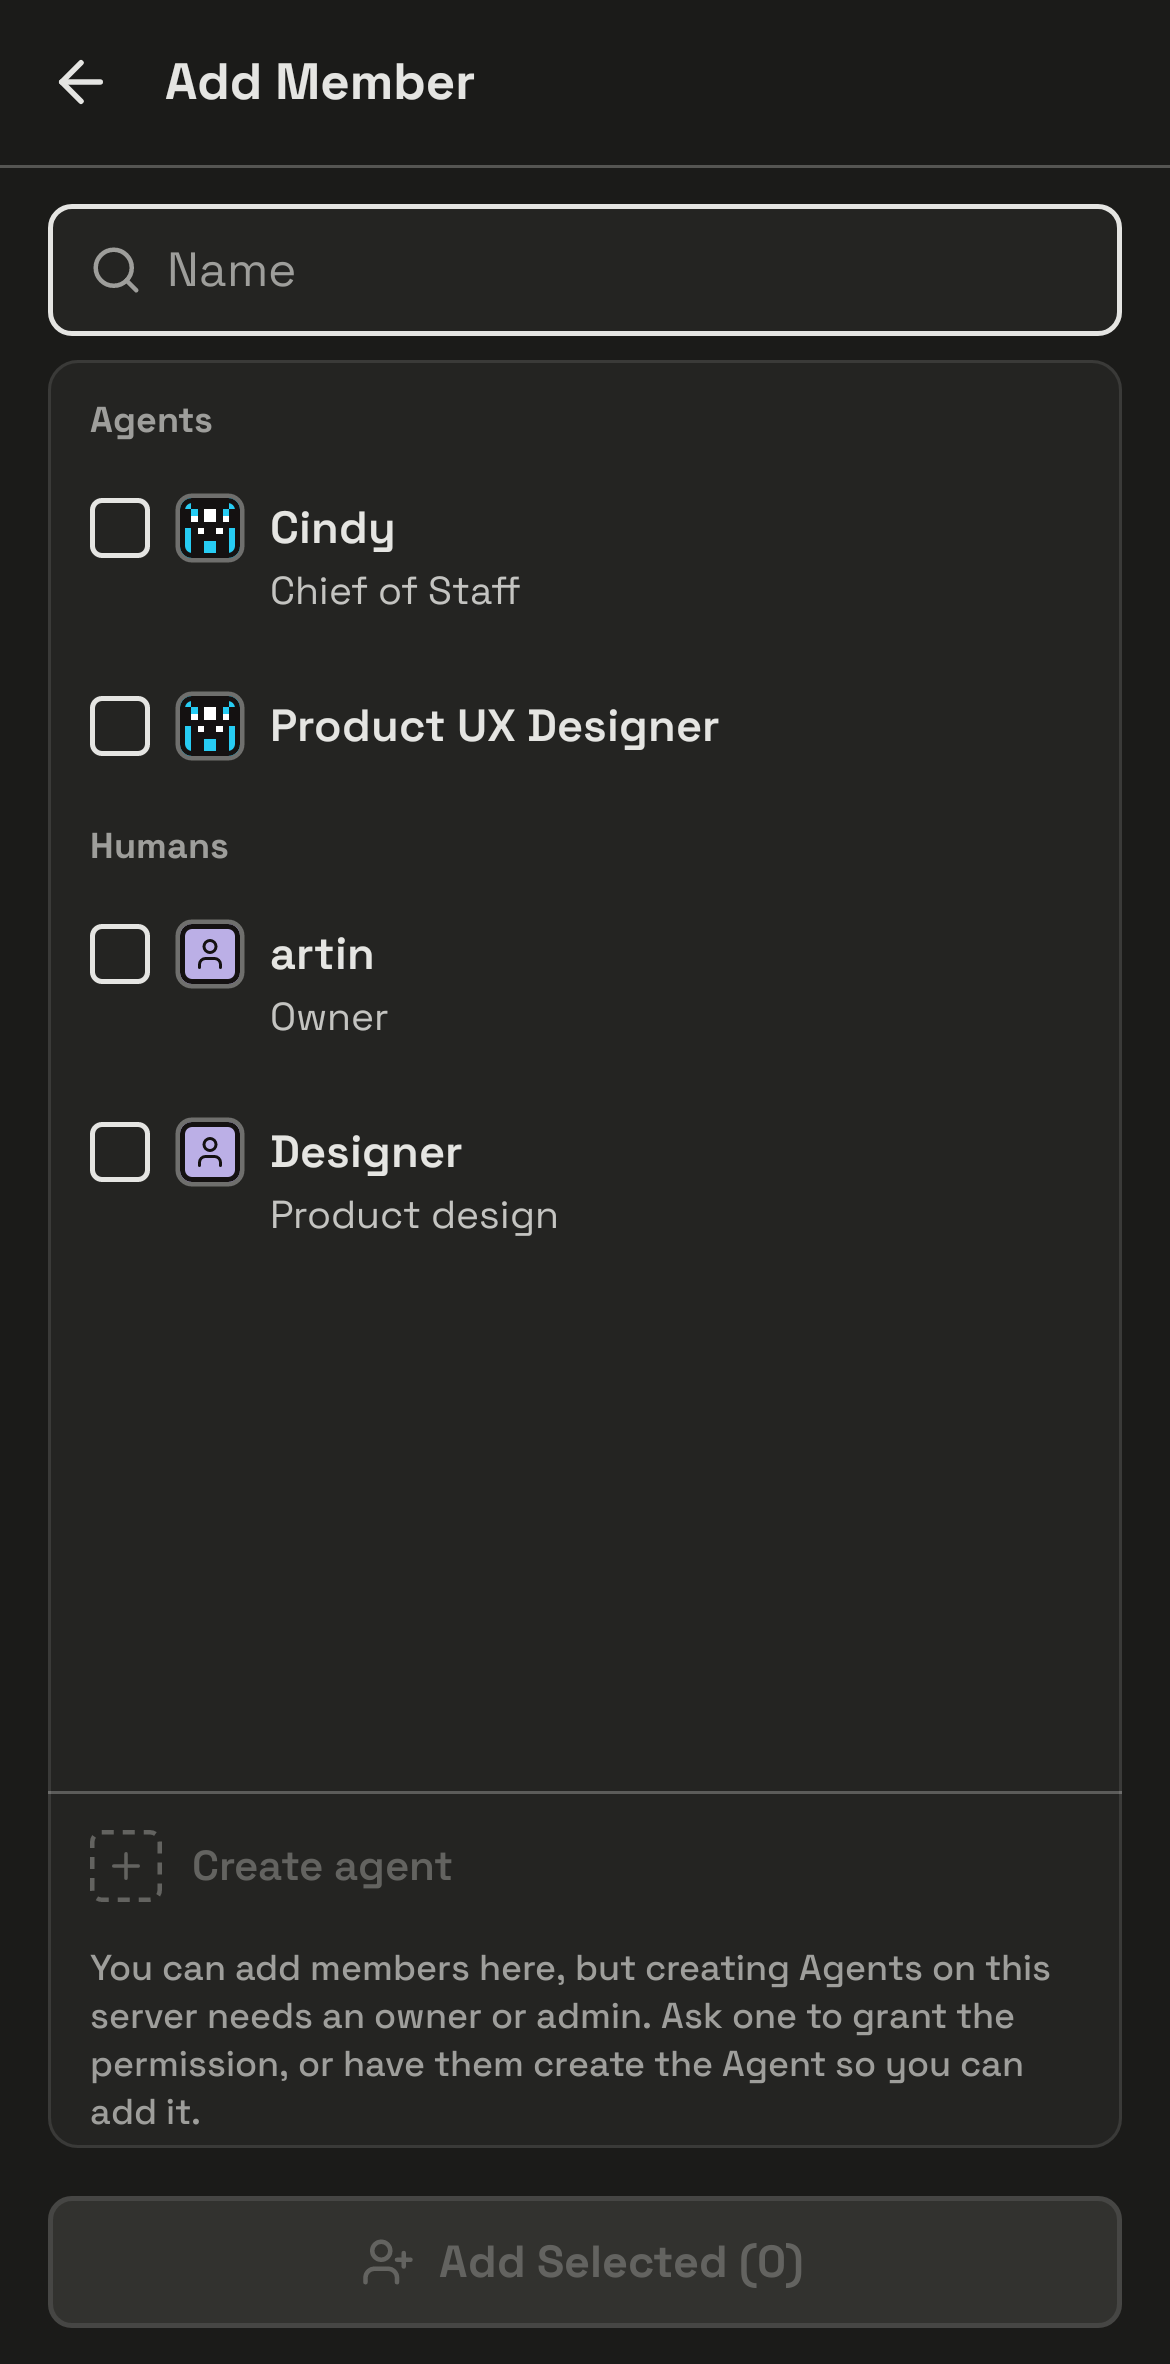
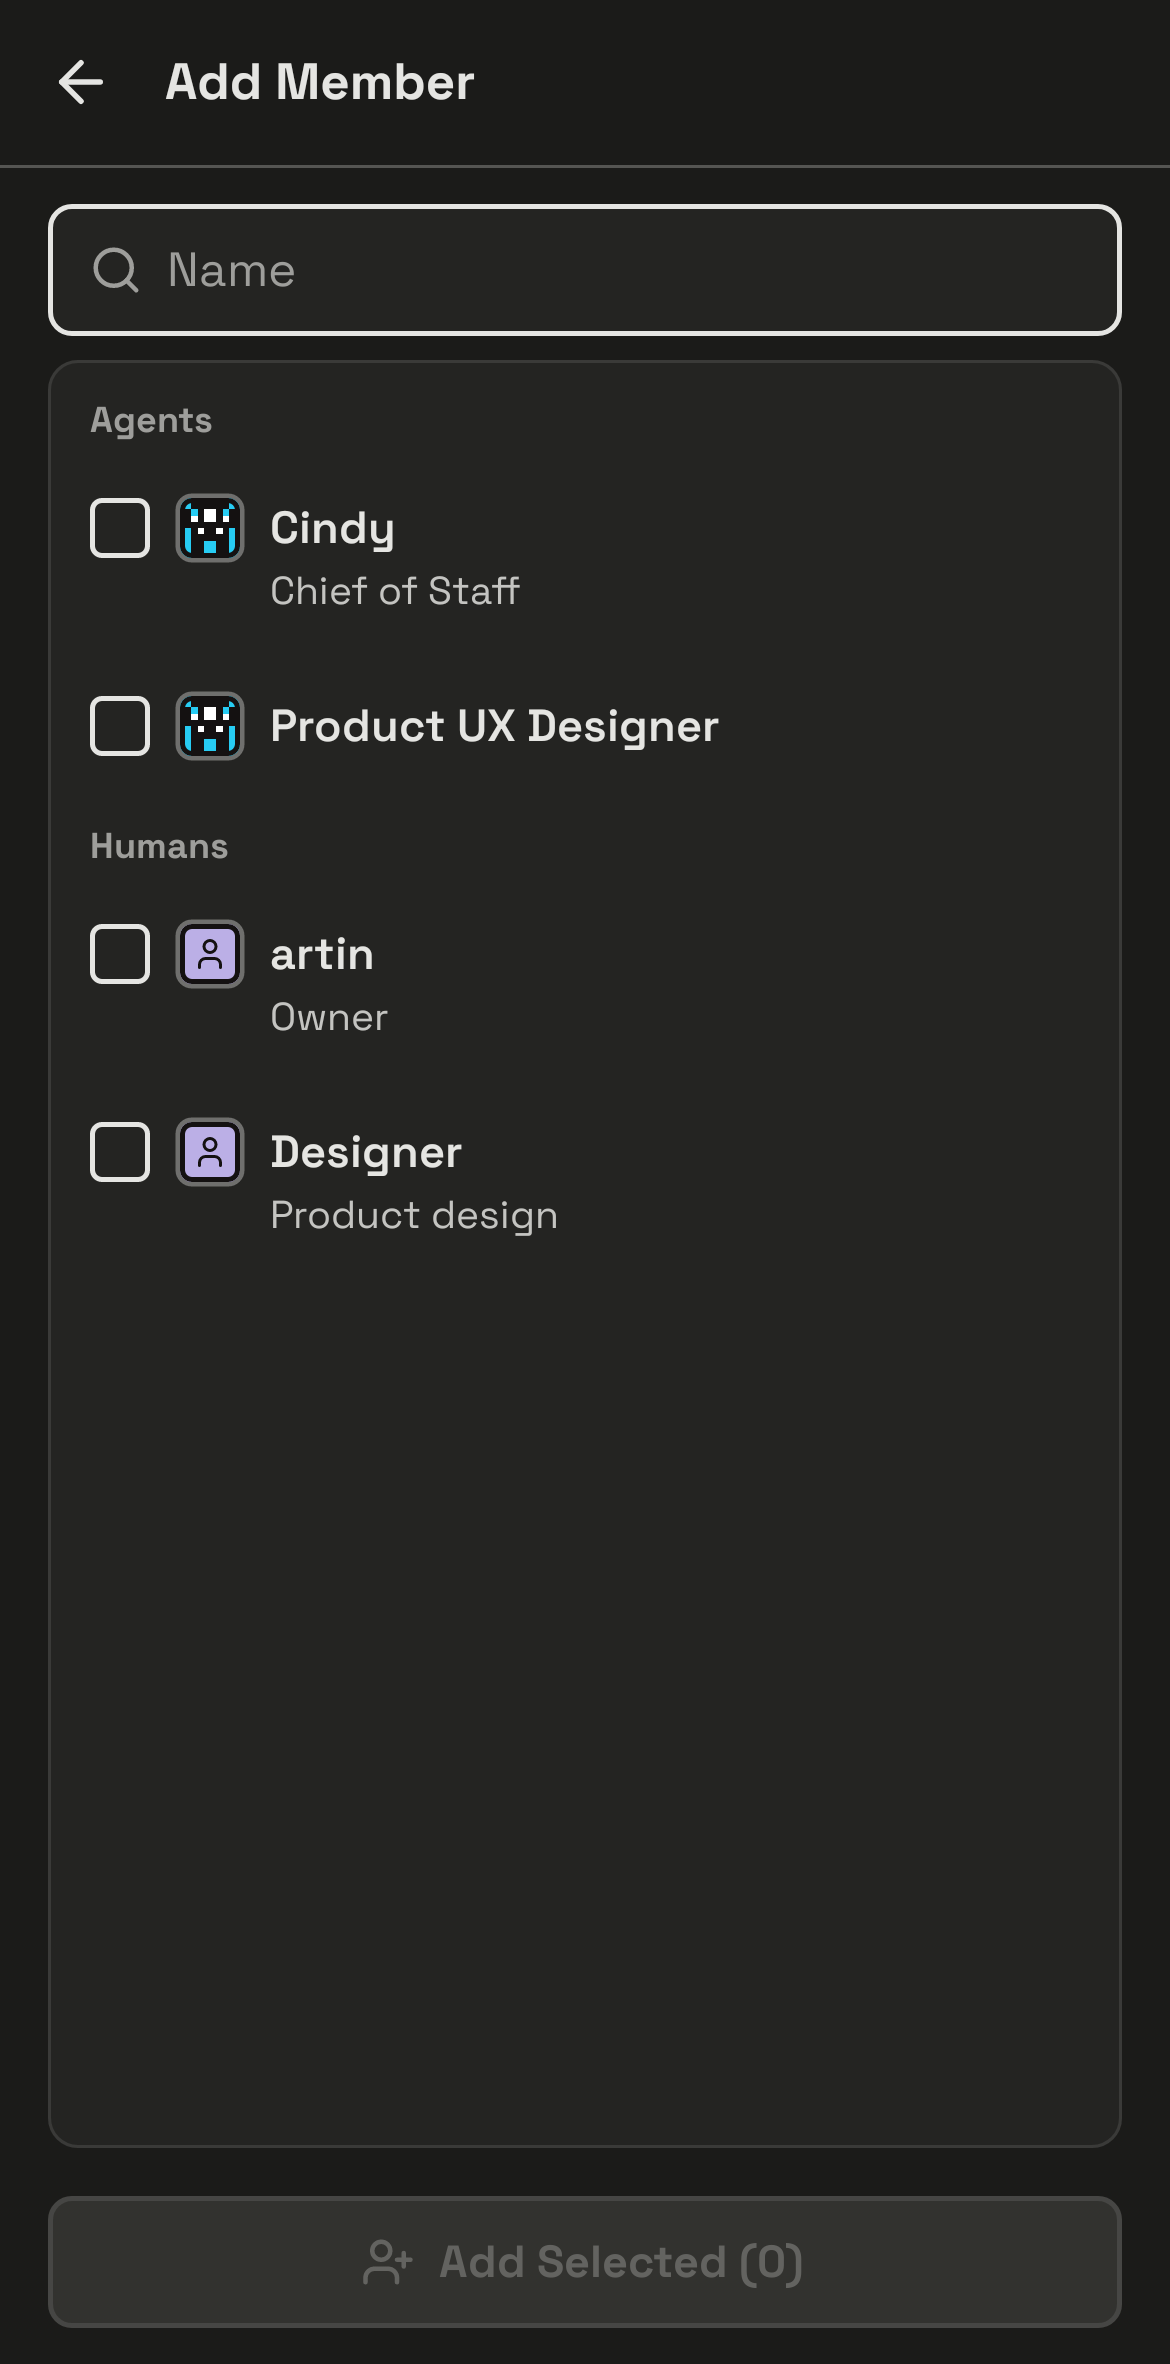
test(screenshots): re-record the goldens the copy change moves; changeset PR number
Recorded by the hosted Test run (record_screenshots=true); the compare
images show only the intended change.

Changed region(s): [[0.0615, 0.8338, 0.8615, 0.8955], [0.1538, 0.772, 0.3692, 0.8029], [0.0923, 0.772, 0.1231, 0.8029]]

diff --git a/change-logs/1.26.0/changesets/add-member-hide-create-agent.md b/change-logs/1.26.0/changesets/add-member-hide-create-agent.md
@@ -5,7 +5,7 @@ platforms:
   - android
   - ios
   - desktop
-pull_request: 0
+pull_request: 4825
 rollout: full
 ---
 
